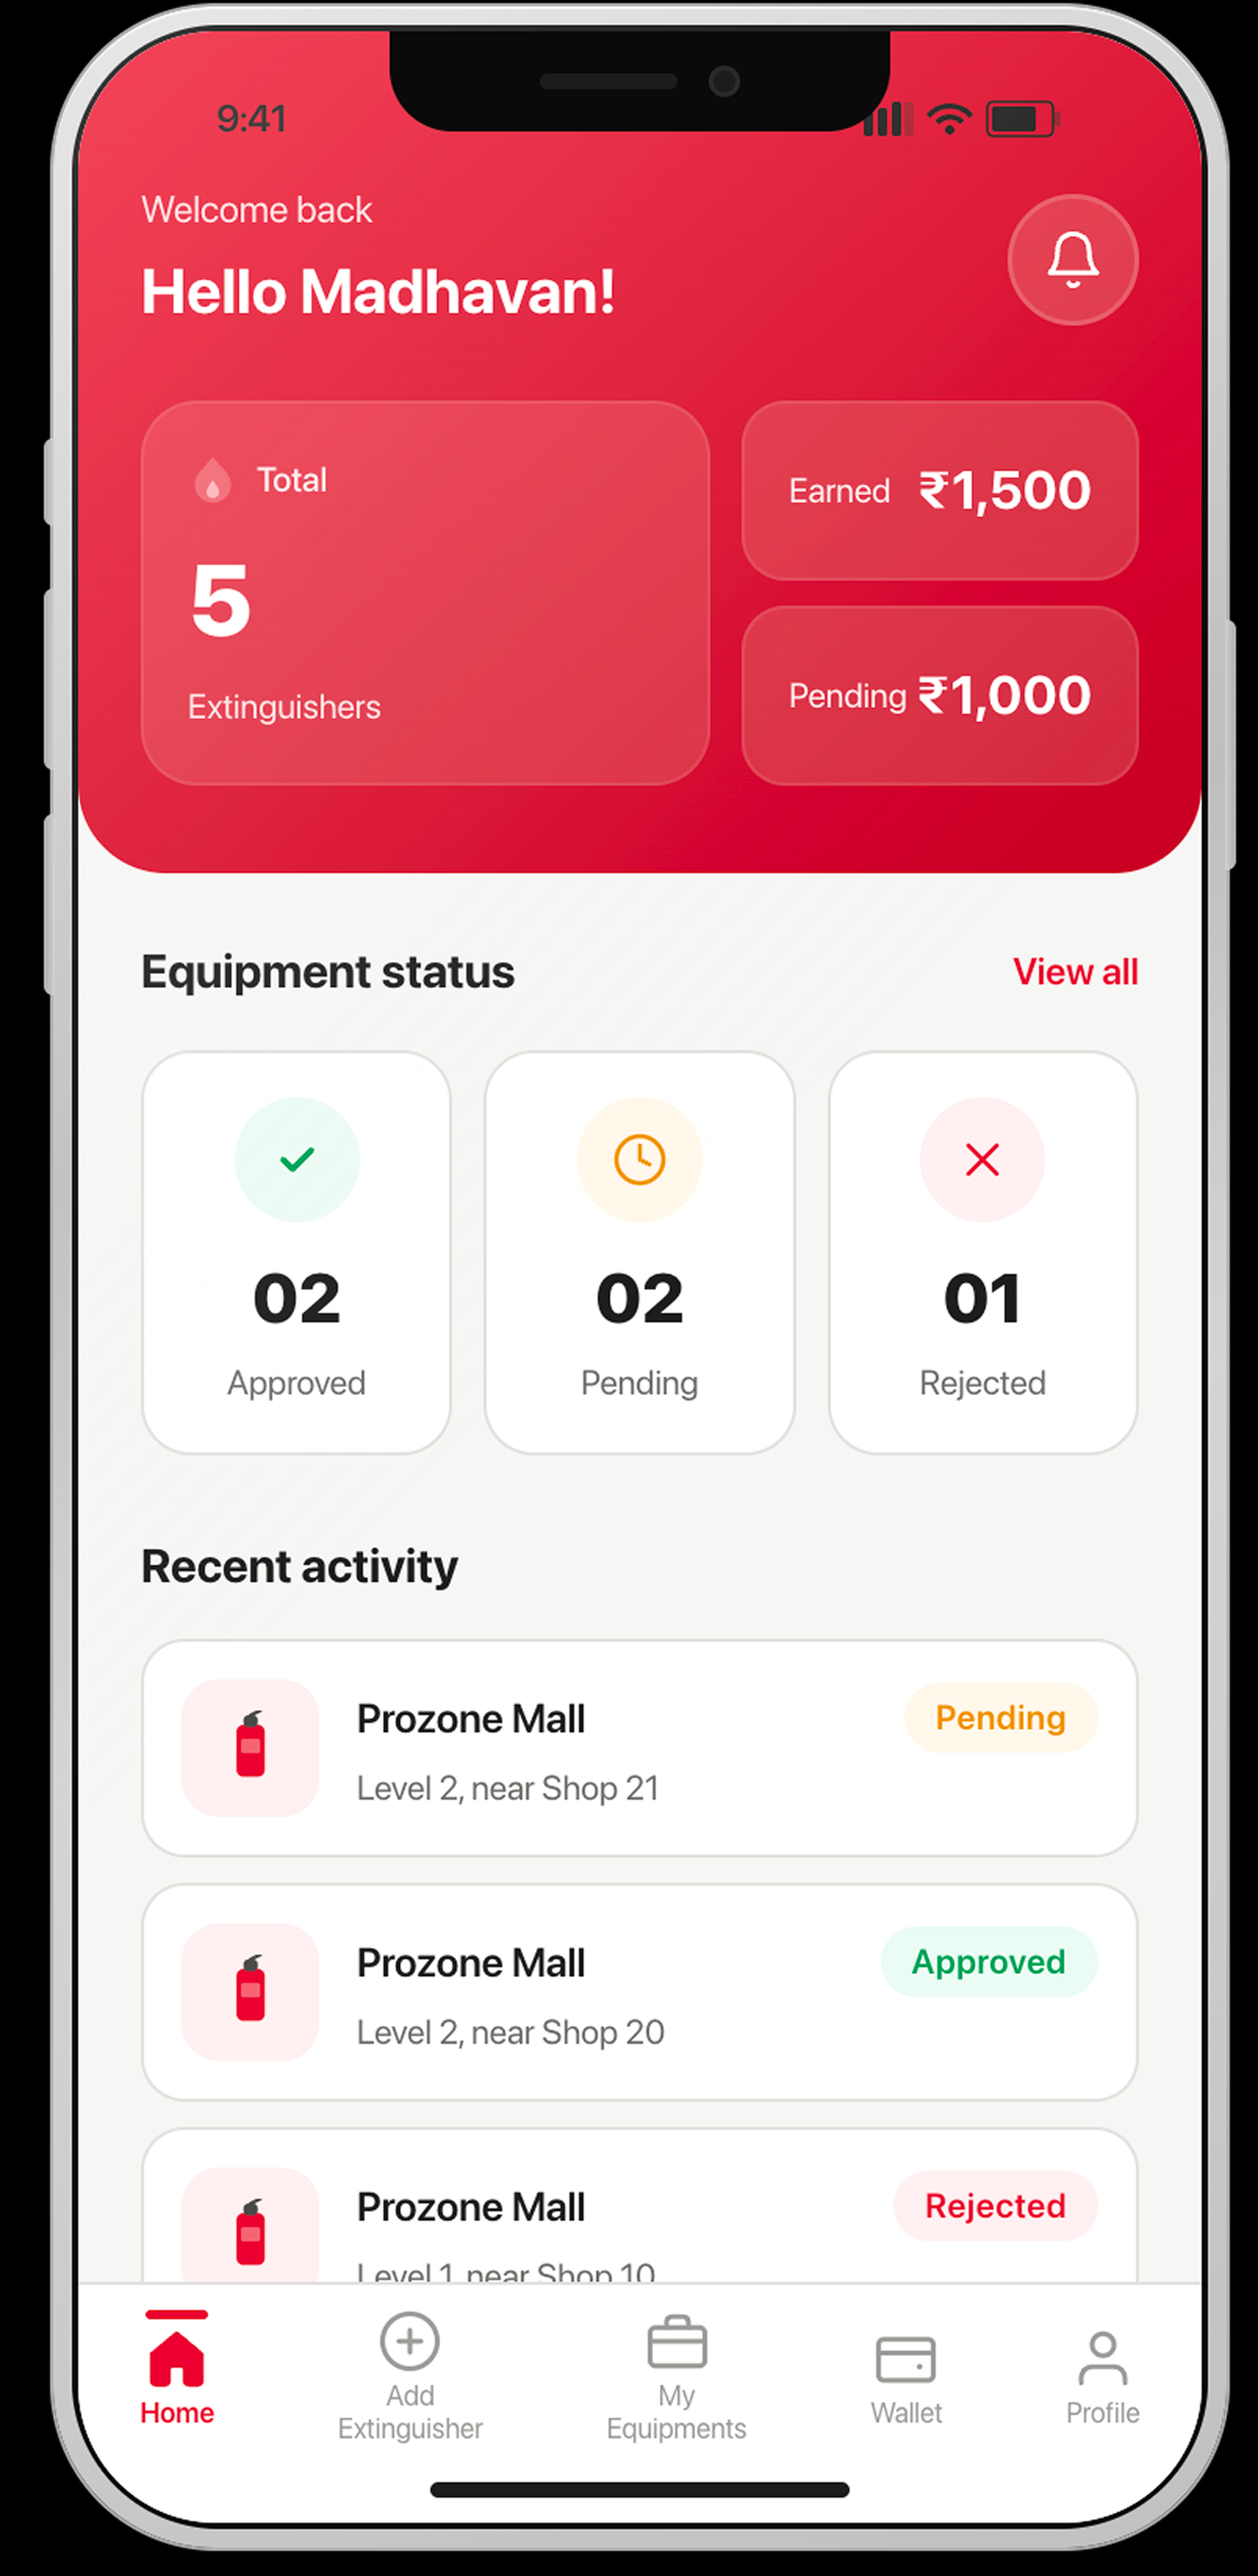
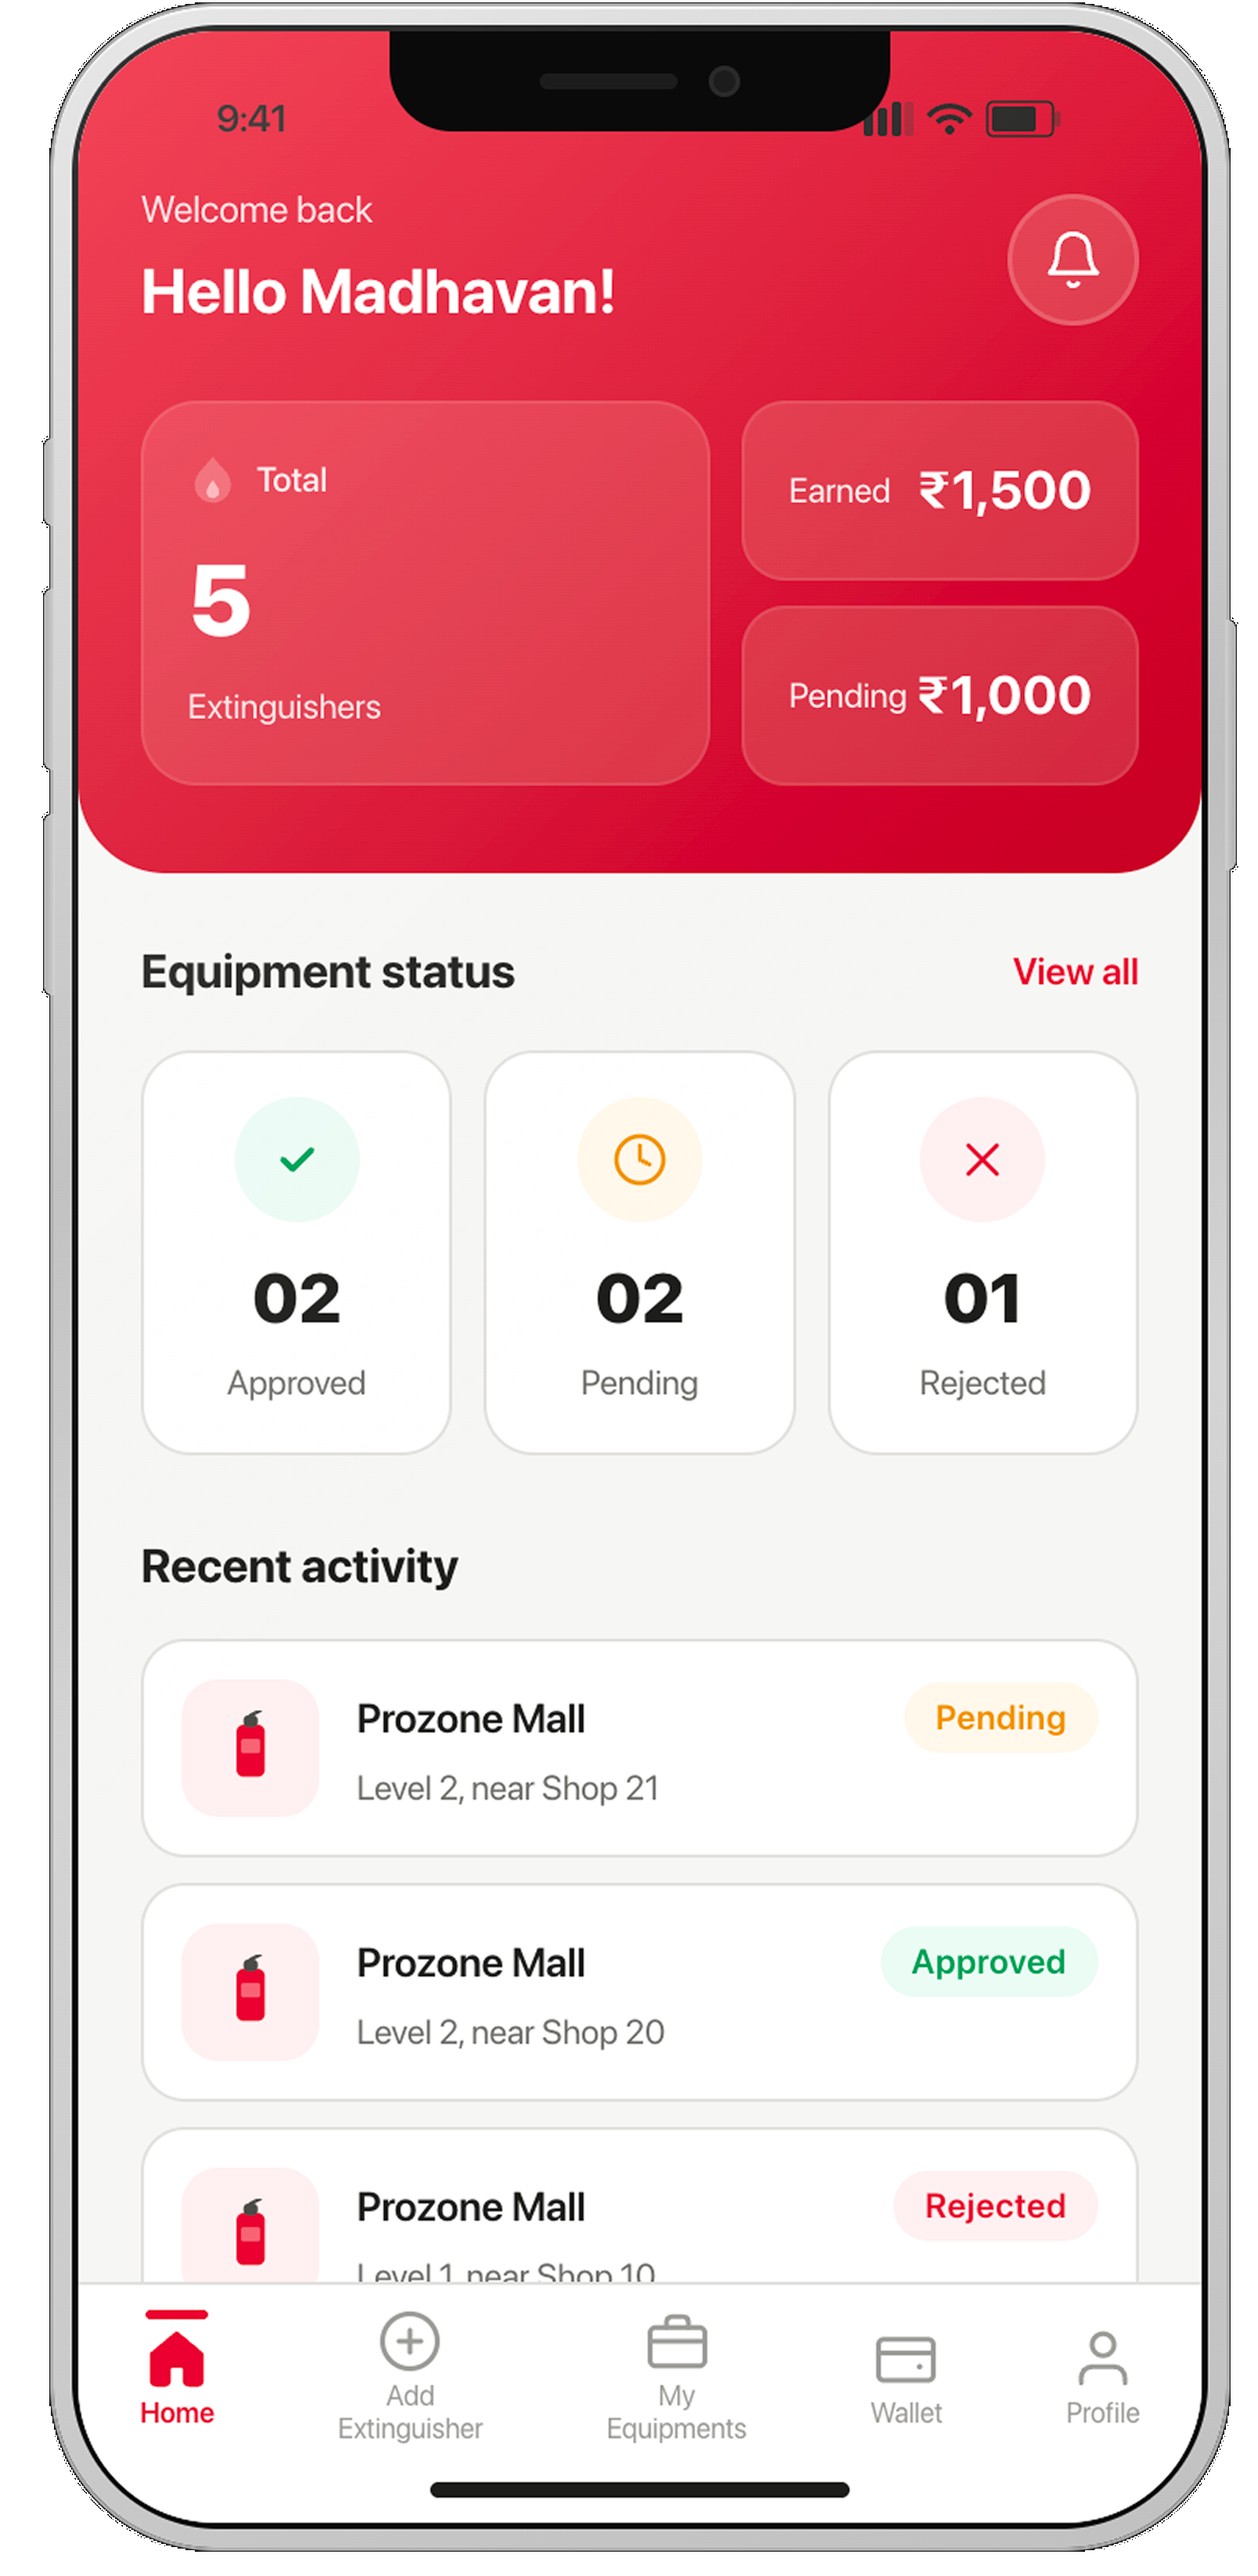
Redesign AI Playground cards as side-by-side thumbnail-on-top layout
Lays out the AI Playground project cards in a row with the thumbnail
stacked above the content instead of a full-width side-by-side split,
and removes the opaque black canvas behind the ABC Fire phone mockup
so it blends into the card background in light mode.

Changed region(s): [[0.0, 0.0, 1.0, 1.0]]

diff --git a/index.html b/index.html
@@ -158,39 +158,41 @@
       <p class="section-desc">Individual projects where I ideated design through AI tools</p>
     </div>
 
-    <article class="project">
-      <div class="project-grid">
-        <a class="project-media project-media--contain" href="ai-tokenization-fitness.html" aria-label="Preview AI tokenization fitness project" onclick="va('event', { name: 'case_study_clicked', data: { project: 'ai_tokenization_fitness' } })">
-          <img src="assets/home/ai-playground-tokenization-fitness.png" alt="AI tokenization fitness concept shown on an Apple Watch">
-        </a>
-        <div>
-          <h3 class="project-title">AI tokenization fitness</h3>
-          <p class="project-desc">Fitness motivation through AI tokens</p>
-          <span class="platform-label">Apple Watch OS</span>
-          <a class="project-cta" href="ai-tokenization-fitness.html" aria-label="Preview AI tokenization fitness project" onclick="va('event', { name: 'case_study_clicked', data: { project: 'ai_tokenization_fitness' } })" style="display:flex; width:fit-content; margin-top:var(--sp-6)">
-            Preview project
-            <svg width="16" height="16" viewBox="0 0 16 16" fill="none"><path d="M3 13L13 3M13 3H6M13 3V10" stroke="currentColor" stroke-width="1.5" stroke-linecap="round" stroke-linejoin="round"/></svg>
+    <div class="ai-playground-grid">
+      <article class="project">
+        <div class="project-grid">
+          <a class="project-media project-media--contain" href="ai-tokenization-fitness.html" aria-label="Preview AI tokenization fitness project" onclick="va('event', { name: 'case_study_clicked', data: { project: 'ai_tokenization_fitness' } })">
+            <img src="assets/home/ai-playground-tokenization-fitness.png" alt="AI tokenization fitness concept shown on an Apple Watch">
           </a>
+          <div>
+            <h3 class="project-title">AI tokenization fitness</h3>
+            <p class="project-desc">Fitness motivation through AI tokens</p>
+            <span class="platform-label">Apple Watch OS</span>
+            <a class="project-cta" href="ai-tokenization-fitness.html" aria-label="Preview AI tokenization fitness project" onclick="va('event', { name: 'case_study_clicked', data: { project: 'ai_tokenization_fitness' } })" style="display:flex; width:fit-content; margin-top:var(--sp-6)">
+              Preview project
+              <svg width="16" height="16" viewBox="0 0 16 16" fill="none"><path d="M3 13L13 3M13 3H6M13 3V10" stroke="currentColor" stroke-width="1.5" stroke-linecap="round" stroke-linejoin="round"/></svg>
+            </a>
+          </div>
         </div>
-      </div>
-    </article>
+      </article>
 
-    <article class="project">
-      <div class="project-grid">
-        <a class="project-media project-media--contain" href="abc-fire.html" aria-label="Preview ABC Fire app redesign project" onclick="va('event', { name: 'case_study_clicked', data: { project: 'abc_fire' } })">
-          <img src="assets/home/ai-playground-abc-fire.png" alt="ABC Fire app redesign home screen">
-        </a>
-        <div>
-          <h3 class="project-title">ABC Fire App Redesign</h3>
-          <p class="project-desc">A gamified fire equipment app, redesigned with Claude as a design collaborator</p>
-          <span class="platform-label">Consumer App</span>
-          <a class="project-cta" href="abc-fire.html" aria-label="Preview ABC Fire app redesign project" onclick="va('event', { name: 'case_study_clicked', data: { project: 'abc_fire' } })" style="display:flex; width:fit-content; margin-top:var(--sp-6)">
-            Preview project
-            <svg width="16" height="16" viewBox="0 0 16 16" fill="none"><path d="M3 13L13 3M13 3H6M13 3V10" stroke="currentColor" stroke-width="1.5" stroke-linecap="round" stroke-linejoin="round"/></svg>
+      <article class="project">
+        <div class="project-grid">
+          <a class="project-media project-media--contain" href="abc-fire.html" aria-label="Preview ABC Fire app redesign project" onclick="va('event', { name: 'case_study_clicked', data: { project: 'abc_fire' } })">
+            <img src="assets/home/ai-playground-abc-fire.png" alt="ABC Fire app redesign home screen">
           </a>
+          <div>
+            <h3 class="project-title">ABC Fire App Redesign</h3>
+            <p class="project-desc">A gamified fire equipment app, redesigned with Claude as a design collaborator</p>
+            <span class="platform-label">Consumer App</span>
+            <a class="project-cta" href="abc-fire.html" aria-label="Preview ABC Fire app redesign project" onclick="va('event', { name: 'case_study_clicked', data: { project: 'abc_fire' } })" style="display:flex; width:fit-content; margin-top:var(--sp-6)">
+              Preview project
+              <svg width="16" height="16" viewBox="0 0 16 16" fill="none"><path d="M3 13L13 3M13 3H6M13 3V10" stroke="currentColor" stroke-width="1.5" stroke-linecap="round" stroke-linejoin="round"/></svg>
+            </a>
+          </div>
         </div>
-      </div>
-    </article>
+      </article>
+    </div>
   </section>
 
   <section class="testimonials">

diff --git a/styles.css b/styles.css
@@ -415,6 +415,17 @@ html[data-theme="dark"] .hero-tools-icons img[src$=".png"]{ filter: invert(1); }
   margin-top: var(--sp-3);
 }
 .ai-playground .project-media{ background: #fff; }
+.ai-playground-grid{
+  display:grid;
+  grid-template-columns: 1fr 1fr;
+  gap: var(--sp-16);
+}
+.ai-playground .project{ padding-top:0; padding-bottom:0; border-top:none; }
+.ai-playground .project-grid{
+  display:flex;
+  flex-direction:column;
+  gap: var(--sp-6);
+}
 .platform-label{
   display: inline-block;
   padding: var(--sp-2) var(--sp-4);
@@ -895,6 +906,7 @@ html[data-theme="dark"] .page-ai-playground .cs-image .theme-dark-only{ display:
   .hero-media img{ width:180px; height:180px; object-fit:contain; }
   .project-grid{ grid-template-columns: 1fr; }
   .ai-hero-grid{ grid-template-columns: 1fr; }
+  .ai-playground-grid{ grid-template-columns: 1fr; }
   .t-card{ flex-direction:column; align-items:flex-start; }
   .t-meta{ width:auto; text-align:left; }
   .contact-inner{ grid-template-columns: 1fr; align-items:start; }
